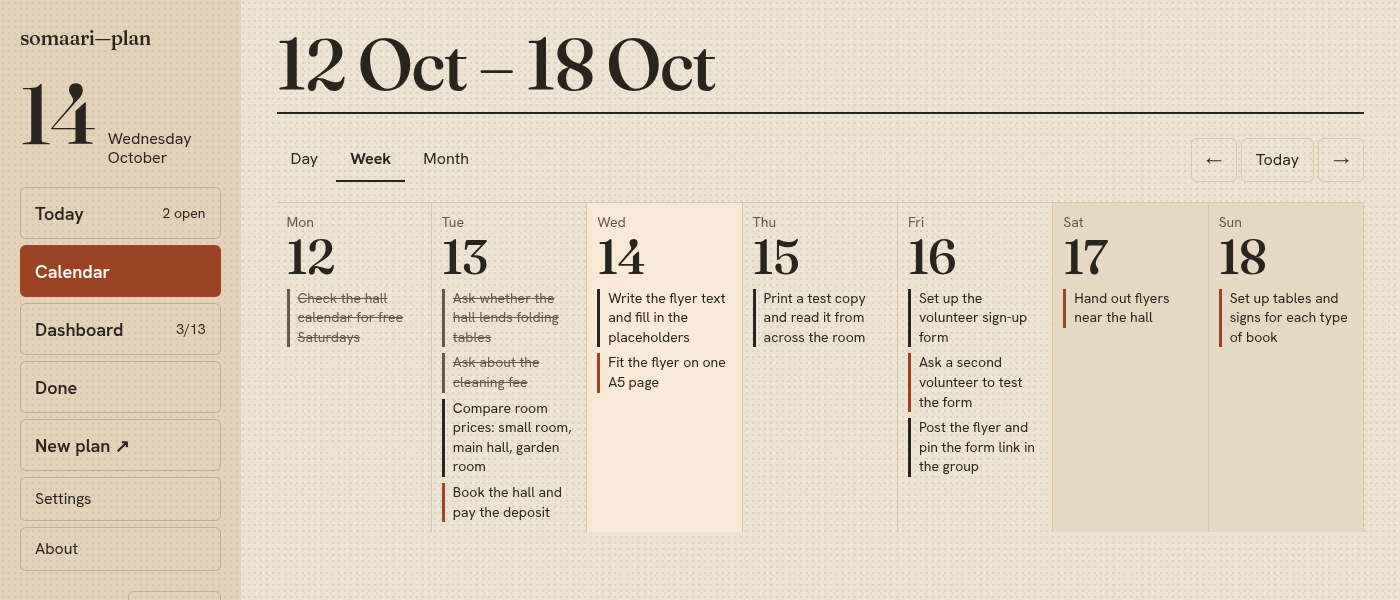
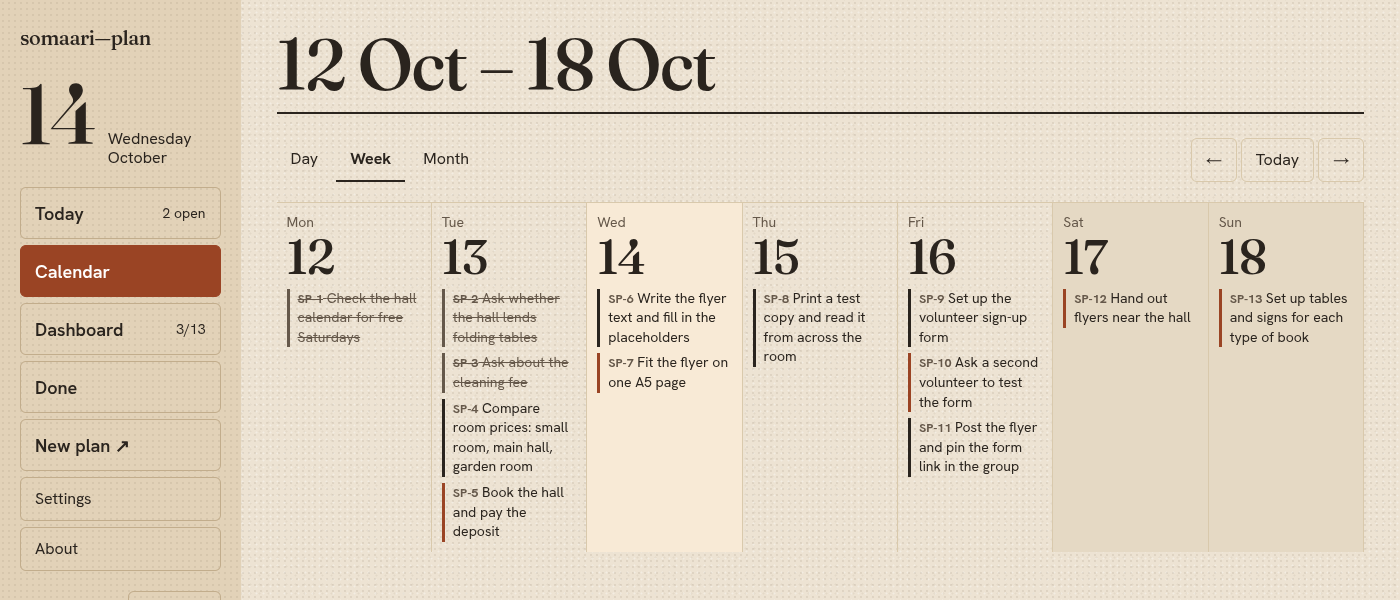
Show task IDs (SP-<id>) on every task list; retake screenshots

diff --git a/web/js/today.js b/web/js/today.js
@@ -1,11 +1,11 @@
-import { el, swap } from "./dom.js";
+import { el, swap, taskKey } from "./dom.js";
 import { fmtStamp } from "./dates.js";
 import { state, subscribe, openToday, toggleDone, loadToday } from "./store.js";
 import { editButton, editForm, isEditing, onEditChange } from "./editor.js";
 
 // prefix keeps Edit button ids unique per page ("t" Today, "c" Calendar day view).
-export function taskRow(t, i, prefix = "t") {
-  const idx = el("span", { class: "idx" }, String(i + 1).padStart(2, "0"));
+export function taskRow(t, prefix = "t") {
+  const idx = el("span", { class: "idx" }, taskKey(t));
   if (isEditing(t)) return el("li", { class: "row editing" }, idx, el("div", { class: "body" }, editForm(t)));
   const meta = el("div", { class: "meta" },
     el("span", { class: "badge p-" + t.priority.toLowerCase() }, t.priority),
@@ -27,7 +27,7 @@ export function renderToday() {
   swap(page.querySelector(".list-host"),
     state.error ? el("div", { class: "empty", role: "alert" }, state.error + " ", el("button", { type: "button", class: "set-btn", onclick: loadToday }, "Try again"))
     : !state.loaded ? el("p", { class: "empty" }, "Loading…")
-    : state.today.length ? el("ol", { class: "rows" }, state.today.map((t, i) => taskRow(t, i, "t")))
+    : state.today.length ? el("ol", { class: "rows" }, state.today.map((t) => taskRow(t, "t")))
     : el("p", { class: "empty" }, "Nothing planned for today."));
 }
 subscribe(renderToday);

diff --git a/web/js/calendar.js b/web/js/calendar.js
@@ -1,4 +1,4 @@
-import { el, swap } from "./dom.js";
+import { el, swap, taskKey } from "./dom.js";
 import { todayIso, addDays, addMonths, rangeLabel, rangeOf, weekStart, dayNum, fmtDay, DOW, dowIndex } from "./dates.js";
 import { state, subscribe, loadCal } from "./store.js";
 import { taskRow } from "./today.js";
@@ -16,7 +16,7 @@ function byDate() {
   for (const t of state.cal) (m[t.due_date] ||= []).push(t);
   return m;
 }
-const item = (t) => el("li", { class: "ci" + (t.closed ? " done" : t.priority === "High" ? " high" : "") }, t.title);
+const item = (t) => el("li", { class: "ci" + (t.closed ? " done" : t.priority === "High" ? " high" : "") }, taskKey(t), " ", t.title);
 
 function weekView(m) {
   const s = weekStart(cal.anchor), today = todayIso();
@@ -41,7 +41,7 @@ function monthView(m) {
 }
 function dayView(m) {
   const list = m[cal.anchor] || [];
-  return list.length ? el("ol", { class: "rows" }, list.map((t, i) => taskRow(t, i, "c"))) : el("p", { class: "empty" }, "No tasks on " + fmtDay(cal.anchor) + ".");
+  return list.length ? el("ol", { class: "rows" }, list.map((t) => taskRow(t, "c"))) : el("p", { class: "empty" }, "No tasks on " + fmtDay(cal.anchor) + ".");
 }
 
 export function renderCalendar() {

diff --git a/web/js/dashboard.js b/web/js/dashboard.js
@@ -1,4 +1,4 @@
-import { el, swap } from "./dom.js";
+import { el, swap, taskKey } from "./dom.js";
 import { todayIso, addDays, weekStart, rangeLabel, DOW, dayNum, dowIndex } from "./dates.js";
 import { fmtDate, onFormatChange } from "./datefmt.js";
 import { subscribe, toggleDone, saveTask } from "./store.js";
@@ -69,7 +69,7 @@ function card(t, today) {
   if (isEditing(t)) return el("li", { class: "card editing" }, editForm(t));
   return el("li", { class: "card" + (sel ? " selected" : "") + (t.closed ? " is-done" : ""), draggable: String(!t.closed),
     ondragstart: (e) => { e.dataTransfer.setData("text/plain", String(t.id)); e.dataTransfer.effectAllowed = "move"; } },
-    el("div", { class: "ctitle" }, t.title), t.step ? el("div", { class: "cstep" }, t.step) : null,
+    el("div", { class: "ctitle" }, taskKey(t), " ", t.title), t.step ? el("div", { class: "cstep" }, t.step) : null,
     el("div", { class: "cact" },
       el("button", { type: "button", class: "mv", "aria-pressed": String(sel), disabled: t.closed,
         title: t.closed ? "Reopen the task to move it" : null,

diff --git a/web/css/app.css b/web/css/app.css
@@ -69,7 +69,9 @@ h1{font-size:72px;font-weight:800;letter-spacing:-.05em;line-height:1;margin:0 0
 @media (max-width:480px){h1{font-size:44px}}
 .rows{list-style:none;margin:0;padding:0}
 .row{display:flex;align-items:center;gap:16px;padding:16px 0;border-bottom:1px solid var(--line)}
-.row .idx{font-size:20px;font-weight:800;min-width:2ch;color:var(--muted-fg)}
+.row .idx{font-size:16px;font-weight:800;min-width:6ch;color:var(--muted-fg);font-variant-numeric:tabular-nums;white-space:nowrap}
+.tkey{color:var(--muted-fg);font-weight:700;font-variant-numeric:tabular-nums;white-space:nowrap}
+.ci .tkey,.ctitle .tkey{font-size:.9em}
 .row .body{flex:1;min-width:0}
 .row .ttl{font-size:24px;font-weight:600;line-height:1.2;overflow-wrap:anywhere}
 .meta{display:flex;flex-wrap:wrap;gap:4px 12px;font-size:14px;color:var(--muted-fg);margin-top:4px}

diff --git a/web/js/done.js b/web/js/done.js
@@ -1,4 +1,4 @@
-import { el, swap } from "./dom.js";
+import { el, swap, taskKey } from "./dom.js";
 import { fmtStamp, fmtDay, weekStart, rangeLabel, todayIso, addDays } from "./dates.js";
 import { subscribe, saveTask } from "./store.js";
 import { dateField, onFormatChange } from "./datefmt.js";
@@ -41,7 +41,7 @@ function pickRow(t) {
 }
 
 function row(t) {
-  return el("li", { class: "row" },
+  return el("li", { class: "row" }, el("span", { class: "idx" }, taskKey(t)),
     el("div", { class: "body" }, el("div", { class: "ttl" }, t.title),
       el("div", { class: "meta" },
         el("span", { class: "badge p-" + t.priority.toLowerCase() }, t.priority),

diff --git a/web/js/dom.js b/web/js/dom.js
@@ -25,3 +25,7 @@ export function swap(host, ...kids) {
   const t = cands[key.i] || cands[0];
   if (t && !t.disabled) t.focus();
 }
+
+// Task ID label shown before every task title, like a Jira issue key ("SP-12").
+export const TASK_KEY_PREFIX = "SP-";
+export const taskKey = (t) => el("span", { class: "tkey" }, TASK_KEY_PREFIX + t.id);

diff --git a/scripts/screenshots/take.py b/scripts/screenshots/take.py
@@ -1,0 +1,53 @@
+"""Take the task-list screenshots with Playwright (headless Chromium). Run by take.sh.
+
+Usage: python take.py BASE_URL OUT_DIR
+"""
+
+import os
+import sys
+
+from playwright.sync_api import sync_playwright
+
+CLOCK = "2026-10-14T09:00:00+05:30"   # Wed 14 Oct, the seed week moved on by take.sh
+THEMES = ["warm-tactile", "liquid-glass", "dasara-jamboo", "rajyotsava"]
+
+# (file, theme, route, width, height, action)
+SHOTS = [(f"theme-{t}.png", t, "dashboard", 1400, 1020, None) for t in THEMES] + [
+    ("today.png", "warm-tactile", "today", 1400, 560, None),
+    ("edit.png", "warm-tactile", "today", 1400, 560, "edit"),
+    ("done.png", "warm-tactile", "done", 1400, 620, None),
+    ("calendar-week.png", "warm-tactile", "calendar", 1400, 600, None),
+    ("phone-today.png", "warm-tactile", "today", 390, 844, None),
+    ("phone-dashboard.png", "warm-tactile", "dashboard", 390, 844, "scroll-main"),
+]
+
+
+def main(base, out_dir):
+    with sync_playwright() as p:
+        browser = p.chromium.launch(executable_path=os.environ.get("CHROMIUM") or None)
+        for name, theme, route, w, h, action in SHOTS:
+            ctx = browser.new_context(viewport={"width": w, "height": h}, device_scale_factor=1,
+                                      timezone_id="Asia/Kolkata", locale="en-IN")
+            page = ctx.new_page()
+            page.clock.set_fixed_time(CLOCK)
+            page.goto(f"{base}?theme={theme}#/{route}")
+            page.locator(f"#page-{route}:not([hidden])").wait_for()
+            page.wait_for_load_state("networkidle")
+            page.locator(f"#page-{route} .tkey").first.wait_for()
+            if action == "edit":
+                page.locator("#page-today .row .edit-btn").first.click()
+                page.locator("#page-today .row.editing").wait_for()
+                page.locator("#page-today .row.editing input").first.evaluate("e => e.blur()")
+            elif action == "scroll-main":
+                page.locator("#main").evaluate("e => e.scrollIntoView()")
+            page.mouse.move(w - 2, h - 2)
+            page.evaluate("document.fonts.ready")
+            page.wait_for_timeout(300)
+            page.screenshot(path=os.path.join(out_dir, name))
+            print("wrote", name)
+            ctx.close()
+        browser.close()
+
+
+if __name__ == "__main__":
+    main(*sys.argv[1:3])

diff --git a/docs/UI_SPEC.md b/docs/UI_SPEC.md
@@ -38,7 +38,7 @@ Rules: 2px fg rule under page titles; 1px `--line` between rows. Radius and shad
 - Exactly one page visible at a time.
 
 ## Today
-Title "Today (N open)". Ordered list sorted by priority. Row: 2-digit index, title (24px/600), meta line: priority badge · step · "Created …" · "Closed …" or orange "Open" tag. Right: "Edit" (1px `--line` border) then "Mark done" / "Done ✓" button (2px border, ≥48px tall). Done = strikethrough + muted text.
+Title "Today (N open)". Ordered list sorted by priority. Row: task ID ("SP-12", 16px/800 muted, the task's database id, not a running number), title (24px/600), meta line: priority badge · step · "Created …" · "Closed …" or orange "Open" tag. Right: "Edit" (1px `--line` border) then "Mark done" / "Done ✓" button (2px border, ≥48px tall). Done = strikethrough + muted text.
 
 ## Editing a task (D-09)
 "Edit" on Today rows, Calendar Day rows and Dashboard cards swaps that row/card for an inline form (2px accent border): Title · Step (tag, suggestions) · Priority · Date · Time, then Save (accent) · Cancel · "Delete…".
@@ -52,14 +52,15 @@ Title = range label. Segmented Day / Week / Month (active = 800 weight + 2px und
 - Week: 7 columns, big day numerals, items with a 3px left rule (accent = High, fg = others, muted = done).
 - Month: Mon-first grid, out-of-month muted, today cell filled accent, "N tasks" label.
 - Weekend: Sat/Sun columns (week) and Sat/Sun headers + cells (month) use `--weekend`; today's highlight wins.
-- Day: numbered rows with created/closed.
+- Day: rows like Today (task ID first) with created/closed.
+- Week items and Dashboard cards start the title with the task ID (muted, 0.9em). Task IDs show on every page that lists tasks: Today, Calendar Day/Week, Dashboard, Done.
 Wide content scrolls horizontally inside its own container.
 
 ## Dashboard
 1. Summary band (3 cells, 1px dividers): This week done/planned · progress by step (4px bars) · Last week done/planned + moved items (from `/api/moved`, D-07) + not done.
 2. Board: header row of days; lanes High / Medium / Low; cells `--field`, today column `--today-cell`.
    Weekend: Sat/Sun headers `--weekend`, Sat/Sun cells `--weekend-cell`; today and drop-hover win.
-   Cards: `--bg`, 1.5px fg border, title 13px/600, step, small "Move" and "Edit" buttons (inline editor as above, fields stacked).
+   Cards: `--bg`, 1.5px fg border, task ID + title 13px/600, step, small "Move" and "Edit" buttons (inline editor as above, fields stacked).
    Open cards due today or earlier also get a small "Done" button (marks done; Today, Calendar and nav counts refresh).
    Done cards: struck-through title, "Move" visible but disabled, not draggable.
    Drag: `draggable`, dragover highlights the cell with `--drop-hover` + dashed accent outline.
@@ -67,7 +68,7 @@ Wide content scrolls horizontally inside its own container.
    Live status line (`role=status`) confirms each move.
 
 ## Done
-Title "Done (N)". Search box (title or step, 250 ms debounce). Finished tasks newest first, grouped by the week they were closed (2px rule + "5 Oct – 11 Oct · N done"). Row: title, meta (priority badge · step · "Due …" · "Closed …"), "Reopen" (2px) and "Reopen on…" (1px) buttons. Reopen keeps a future due date, else moves it to today. "Reopen on…" swaps in a date picker (min today, default tomorrow or the future due date) · Reopen · Cancel; Esc cancels. Status line says where it went ("Reopened for today: …"). Archive = done; there is no separate archive (D-09). Shows the latest 500; search finds older ones.
+Title "Done (N)". Search box (title or step, 250 ms debounce). Finished tasks newest first, grouped by the week they were closed (2px rule + "5 Oct – 11 Oct · N done"). Row: task ID (as Today), title, meta (priority badge · step · "Due …" · "Closed …"), "Reopen" (2px) and "Reopen on…" (1px) buttons. Reopen keeps a future due date, else moves it to today. "Reopen on…" swaps in a date picker (min today, default tomorrow or the future due date) · Reopen · Cancel; Esc cancels. Status line says where it went ("Reopened for today: …"). Archive = done; there is no separate archive (D-09). Shows the latest 500; search finds older ones.
 
 ## New plan ↗
 Title "Plan in. Tasks out." Two columns:

diff --git a/docs/GUIDE.md b/docs/GUIDE.md
@@ -368,7 +368,7 @@ Every task has a title, a **priority** (High, Medium, Low), an optional **step**
 
 <img src="screenshots/today.png" alt="Today: open tasks sorted by priority" width="100%">
 
-Today's tasks, highest priority first. Each row shows the priority, step, when it was created and
+Today's tasks, highest priority first. Each row starts with the task ID (like `SP-12`; it never changes, and the same ID shows on Calendar, Dashboard and Done), then shows the priority, step, when it was created and
 whether it's open or when it was closed. **Mark done** closes a task (struck through); press it
 again (**Done ✓**) to reopen it.
 
@@ -388,7 +388,7 @@ reopen them.
 - **Week:** seven columns, with a coloured edge per task: orange for High, black for others, grey
   (struck through) for done. Weekends are shaded.
 - **Month:** a Monday-first grid with the number of tasks per day; today is filled orange.
-- **Day:** a numbered list with created and closed times, and **Edit**.
+- **Day:** the same list as Today, each task with its ID (like `SP-12`), created and closed times, and **Edit**.
 
 ← and → move by a day, week or month; **Today** jumps back.
 

diff --git a/README.md b/README.md
@@ -182,7 +182,8 @@ uv run python -m app.ai.smoke jev  # one real call to check a provider (needs a 
 
 Design and build docs are in [docs/](docs/): architecture, data model, AI providers and prompts,
 UI spec. Screenshots in `docs/screenshots/` come from neutral demo data only; somaari.in shows the
-`theme-<id>.png` ones on its Task Planner page. The demo video there is recorded by
+`theme-<id>.png` ones on its Task Planner page. After a UI change, `scripts/screenshots/take.sh` retakes the ones that show task lists (same demo
+data and fixed date every run). The demo video there is recorded by
 `.github/workflows/site-demo.yml` (`scripts/site-demo/`, headless Chromium, AI off) after each push to
 `web/`, so a UI change reaches the site without re-recording by hand.
 
